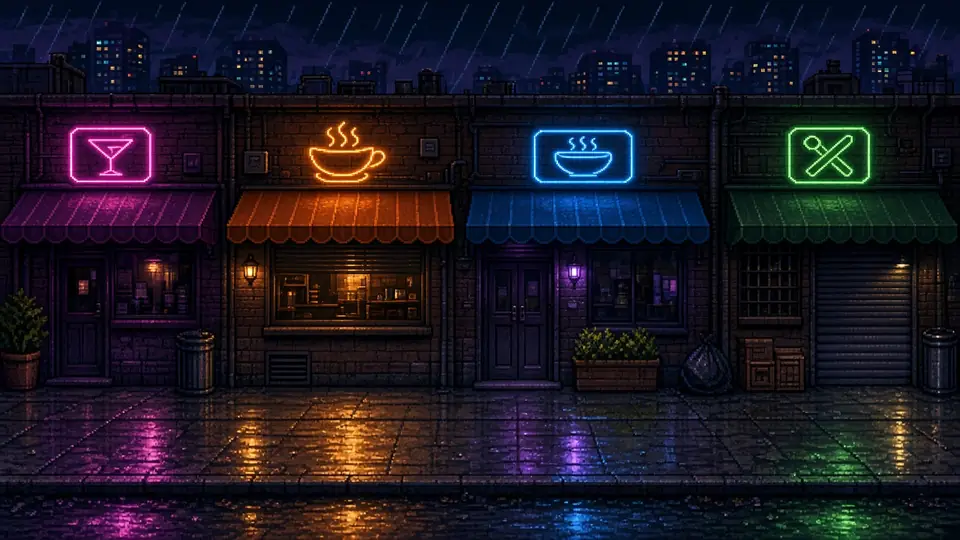
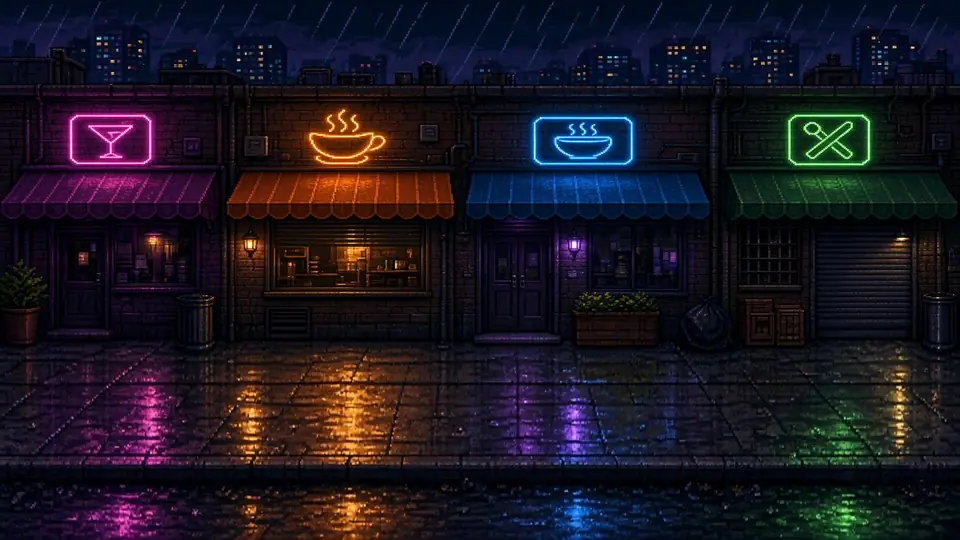
Lane on floor: re-fit 8 plates so the walk band lies on painted ground (city-stores wall base, zoo-lion ledge, fbi-server plinth, fbi-director dais, airfield/waterfall/canopy/thicket thin-lip floors); QA script

diff --git a/tools/ai-art/build_bg.py b/tools/ai-art/build_bg.py
@@ -74,6 +74,21 @@ EXTRA = {
     'jungle-temple': ('jungle', 0.72),
     'jungle-clearing': ('jungle', 0.61),
 }
+# Lane-on-floor corrections (feet must land on painted floor, never on a wall/ledge face). name -> (floor-top F, floor-bottom Fb or None).
+# Fb: the painted floor ends there (ledge/wall face below), so src[F:Fb] fills the whole walk band (mirror-tiled when it would stretch >1.8x).
+FIX = {
+    'city-stores': (0.75, None),     # shop-front wall base sat ~17 logic px below the assumed floor top
+    'fbi-server': (0.705, None),     # plinth base
+    'zoo-lion': (0.785, 0.935),      # terrace front face below the paving
+    'fbi-director': (0.67, 0.83),    # carpet ends at a dais ledge + brick face
+    'base-airfield': (0.697, None),  # tarmac strip above a hangar-apron wall (floor comes from DONOR)
+    'jungle-waterfall': (0.765, None),  # dirt path above a cliff wall
+    'jungle-canopy': (0.728, None),   # grass lip above an earth cut face
+    'jungle-thicket': (0.735, None),  # grass lip above a bush/stone wall
+}
+# The painted floor of these plates is only a thin lip above a wall/cliff face, so the walk band below the lip is taken from a plate with
+# a real ground (already built, colour-matched to the lip, 10 row blend) instead of stretching a few pixels.
+DONOR = {'base-airfield': 'base-hq', 'jungle-waterfall': 'jungle-treeline', 'jungle-canopy': 'jungle-cave', 'jungle-thicket': 'jungle-clearing'}
 FLOOR_LIFT = 10   # logic px the plate floor top sits above lane top
 ZONE = 1          # device px: plates keep their real edge pixels; runtime crossfades neighbours (bg.js)
 HAZE_ROWS = 45    # per-row haze colour samples stored in bg.json (runtime fades the neighbouring plate into the same haze)
@@ -102,8 +117,25 @@ for name, (stage, F) in EXTRA.items():
     src = Image.open(f'{SRC}/bgx/{name}.jpg').convert('RGB')
     sh = src.height; lane_top, lane_bot = meta[stage]['lane']
     T = (lane_top - FLOOR_LIFT) * 3  # target floor-top row in the 540px output
+    Fb = None
+    if name in FIX: F, Fb = FIX[name]
     fy = int(round(F * sh)); top = src.crop((0, 0, src.width, fy)).resize((W, T), Image.LANCZOS)
-    bot = src.crop((0, fy, src.width, sh)).resize((W, H - T), Image.LANCZOS)
+    if Fb is None:
+        bot = src.crop((0, fy, src.width, sh)).resize((W, H - T), Image.LANCZOS)
+    else:
+        fb = int(round(Fb * sh)); band = src.crop((0, fy, src.width, fb)); need = H - T
+        nat = band.height * W / src.width; n = max(1, int(np.ceil(need / nat / 1.8)))
+        hs = [need * (i + 1) // n - need * i // n for i in range(n)]; parts = []
+        for i, hh in enumerate(hs):
+            b = band if i % 2 == 0 else band.transpose(Image.FLIP_TOP_BOTTOM)
+            parts.append(np.array(b.resize((W, hh), Image.LANCZOS)))
+        bot = np.concatenate(parts, 0)
+    if name in DONOR:
+        dn = np.array(Image.open(f'{OUT}/x_{DONOR[name]}.webp').convert('RGB')).astype(np.float32)[T:]
+        tp = np.array(top).astype(np.float32)
+        dn = dn + (tp[-14:].mean((0, 1)) - dn[:14].mean((0, 1)))[None, None, :] * np.clip(1 - np.arange(dn.shape[0]) / 120, 0.4, 1)[:, None, None]
+        r = np.clip(np.arange(dn.shape[0]) / 10, 0, 1)[:, None, None]
+        dn[:10] = dn[:10] * r[:10] + tp[-10:] * (1 - r[:10]); bot = np.clip(dn, 0, 255).astype(np.uint8)
     a = np.concatenate([np.array(top), np.array(bot)], 0)
     a = lift_floor(a, lane_top * 3, min(H, lane_bot * 3 + 10), FLOOR_LUM[name])
     # per-row haze colour of each side (edge columns, vertically blurred), then ramp the plate edge out of it (tone-matched fade)

diff --git a/tools/qa-lane-floor.py b/tools/qa-lane-floor.py
@@ -1,0 +1,48 @@
+# For every screen of every stage at 844x390: player at lane top, then lane bottom, with enemies+banana at both lane edges. Screenshots for review.
+import asyncio, os, sys, subprocess, time
+from playwright.async_api import async_playwright
+from PIL import Image, ImageDraw
+OUT = sys.argv[1] if len(sys.argv) > 1 else '/workspace/shots-harambe-v28'; os.makedirs(OUT, exist_ok=True)
+URL = sys.argv[2] if len(sys.argv) > 2 else 'http://localhost:8127'
+NAMES = ['zoo', 'street', 'office', 'base', 'jungle']
+JS = """async (x)=>{const {ENEMIES}=await import('/js/levels.js');const G=window.__game,st=window.__stages[G.stage];
+ G.cam=x;G.lock=x;G.evIdx=99;G.boss=null;G.bossSpawned=true;G.items=[];G.ents=[];
+ const keys=Object.keys(ENEMIES);
+ const mk=(k,px,py,face)=>{const d=ENEMIES[k];return {type:d.sheet,boss:false,d,x:px,y:py,z:0,vx:0,vy:0,vz:0,face,hp:99,max:99,spd:0,dmg:0,cdm:1,maxAtk:0,state:'idle',t:0,st:0,cd:99,w:16,slot:30,hurtT:0,inv:0,rage:false,hit:false,move:null,dead:0}};
+ const T=G.lane.top,B=G.lane.bot;
+ G.ents.push(mk(keys[0],x+250,T,-1),mk(keys[1%keys.length],x+210,B,-1),mk(keys[0],x+60,T,1),mk(keys[1%keys.length],x+75,B,1));
+ G.items.push({x:x+160,y:T,kind:'banana',heal:25},{x:x+190,y:B,kind:'banana',heal:25});
+ window.__setP=(y)=>{G.p.x=x+130;G.p.y=y;G.p.z=0;G.p.vx=0;G.p.state='idle'};
+ return [T,B]}"""
+async def main():
+    srv = subprocess.Popen(['python3', '-m', 'http.server', '8127'], cwd=os.path.join(os.path.dirname(__file__), '..'), stdout=subprocess.DEVNULL, stderr=subprocess.DEVNULL); time.sleep(1)
+    async with async_playwright() as pw:
+        b = await pw.chromium.launch(args=['--autoplay-policy=no-user-gesture-required'])
+        for si, nm in enumerate(NAMES):
+            ctx = await b.new_context(viewport={'width': 844, 'height': 390}, has_touch=True, is_mobile=True)
+            pg = await ctx.new_page(); errs = []
+            pg.on('pageerror', lambda e: errs.append(str(e)))
+            await pg.goto(f'{URL}/?skipintro&god&debugstart&nosave&stage={si}'); await pg.wait_for_function('window.__game&&window.__game.mode')
+            await pg.evaluate("window.__game.mode='play'"); await pg.wait_for_timeout(300)
+            stops = await pg.evaluate("(()=>{const st=window.__stages[window.__game.stage];return [0,...st.events.map(e=>e.at),st.length-320]})()")
+            pairs = []
+            for i, x in enumerate(stops):
+                T, B = await pg.evaluate(JS, x); fs = []
+                for tag, y in (('top', T), ('bot', B)):
+                    await pg.evaluate(f"window.__setP({y})"); await pg.wait_for_timeout(120)
+                    await pg.evaluate(f"window.__setP({y})"); await pg.wait_for_timeout(150)
+                    f = f'{OUT}/{nm}_{i+1:02d}_{tag}.png'; await pg.screenshot(path=f); fs.append(f)
+                pairs.append(fs)
+            w, h = 422, 195; cols = 2; rows = len(pairs)
+            # two sheets per stage keep them legible
+            half = (rows + 1) // 2
+            for part, chunk in enumerate((pairs[:half], pairs[half:])):
+                if not chunk: continue
+                sh = Image.new('RGB', (w * 2, h * len(chunk)))
+                for r, fs in enumerate(chunk):
+                    for c, f in enumerate(fs): sh.paste(Image.open(f).resize((w, h)), (c * w, r * h))
+                sh.save(f'{OUT}/lane_{nm}_{part+1}.png')
+            print(nm, len(stops), 'errors', errs[:2]); await ctx.close()
+        await b.close()
+    srv.terminate()
+asyncio.run(main())
